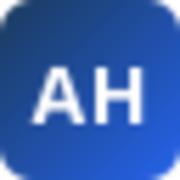
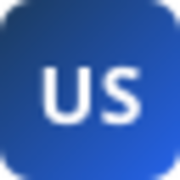
feat: rebrand to UNILINK Space (Analytics Hub)
Update header, login page, favicon, page title, and email branding
from "Analytics Hub" / "AH" to "UNILINK Space" / "US".

Changed region(s): [[0.1389, 0.3333, 0.8056, 0.7222]]

diff --git a/frontend/lib/auth.ts b/frontend/lib/auth.ts
@@ -19,18 +19,18 @@ export const { handlers, signIn, signOut, auth } = NextAuth({
   providers: [
     Resend({
       apiKey: process.env.RESEND_API_KEY,
-      from: "Analytics Hub <noreply@unilinkportal.com>",
+      from: "UNILINK Space <noreply@unilinkportal.com>",
       sendVerificationRequest: async ({ identifier: email, token, url }) => {
         const code = generateCode(token)
         const { Resend: ResendClient } = await import("resend")
         const resend = new ResendClient(process.env.RESEND_API_KEY)
         await resend.emails.send({
-          from: "Analytics Hub <noreply@unilinkportal.com>",
+          from: "UNILINK Space <noreply@unilinkportal.com>",
           to: email,
           subject: `Your login code: ${code}`,
           html: `
             <div style="font-family: Inter, sans-serif; max-width: 480px; margin: 0 auto; padding: 32px;">
-              <h2 style="color: #1B3A5C; margin-bottom: 24px;">Analytics Hub</h2>
+              <h2 style="color: #1B3A5C; margin-bottom: 24px;">UNILINK Space</h2>
               <p style="color: #111827; font-size: 16px;">Your verification code is:</p>
               <p style="font-size: 32px; font-weight: 700; color: #2563EB; letter-spacing: 4px; margin: 24px 0;">${code}</p>
               <p style="color: #6B7280; font-size: 14px;">This code expires in 10 minutes.</p>

diff --git a/frontend/app/(auth)/login/page.tsx b/frontend/app/(auth)/login/page.tsx
@@ -46,10 +46,10 @@ export default function LoginPage() {
       <Card className="w-full max-w-md">
         <CardHeader className="text-center">
           <div className="mx-auto mb-4 flex h-12 w-12 items-center justify-center rounded-xl bg-[#1B3A5C]">
-            <span className="text-lg font-bold text-white">AH</span>
+            <span className="text-lg font-bold text-white">US</span>
           </div>
           <CardTitle className="text-2xl font-bold text-[#1B3A5C]">
-            Analytics Hub
+            UNILINK Space
           </CardTitle>
           <CardDescription>
             Sign in with your corporate email to access dashboards

diff --git a/frontend/components/Header.tsx b/frontend/components/Header.tsx
@@ -20,10 +20,10 @@ export function Header() {
         {/* Logo */}
         <Link href="/" className="flex items-center gap-3">
           <div className="flex h-9 w-9 items-center justify-center rounded-lg bg-[#1B3A5C]">
-            <span className="text-sm font-bold text-white">AH</span>
+            <span className="text-sm font-bold text-white">US</span>
           </div>
           <span className="hidden text-lg font-semibold text-[#1B3A5C] sm:inline">
-            Analytics Hub
+            UNILINK Space
           </span>
         </Link>
 

diff --git a/frontend/app/layout.tsx b/frontend/app/layout.tsx
@@ -7,7 +7,7 @@ import { Header } from "@/components/Header"
 const inter = Inter({ subsets: ["latin"], variable: "--font-inter" })
 
 export const metadata: Metadata = {
-  title: "Analytics Hub — Unilink",
+  title: "UNILINK Space (Analytics Hub)",
   description: "Role-based Qlik dashboard portal for Unilink Transportation",
 }
 
